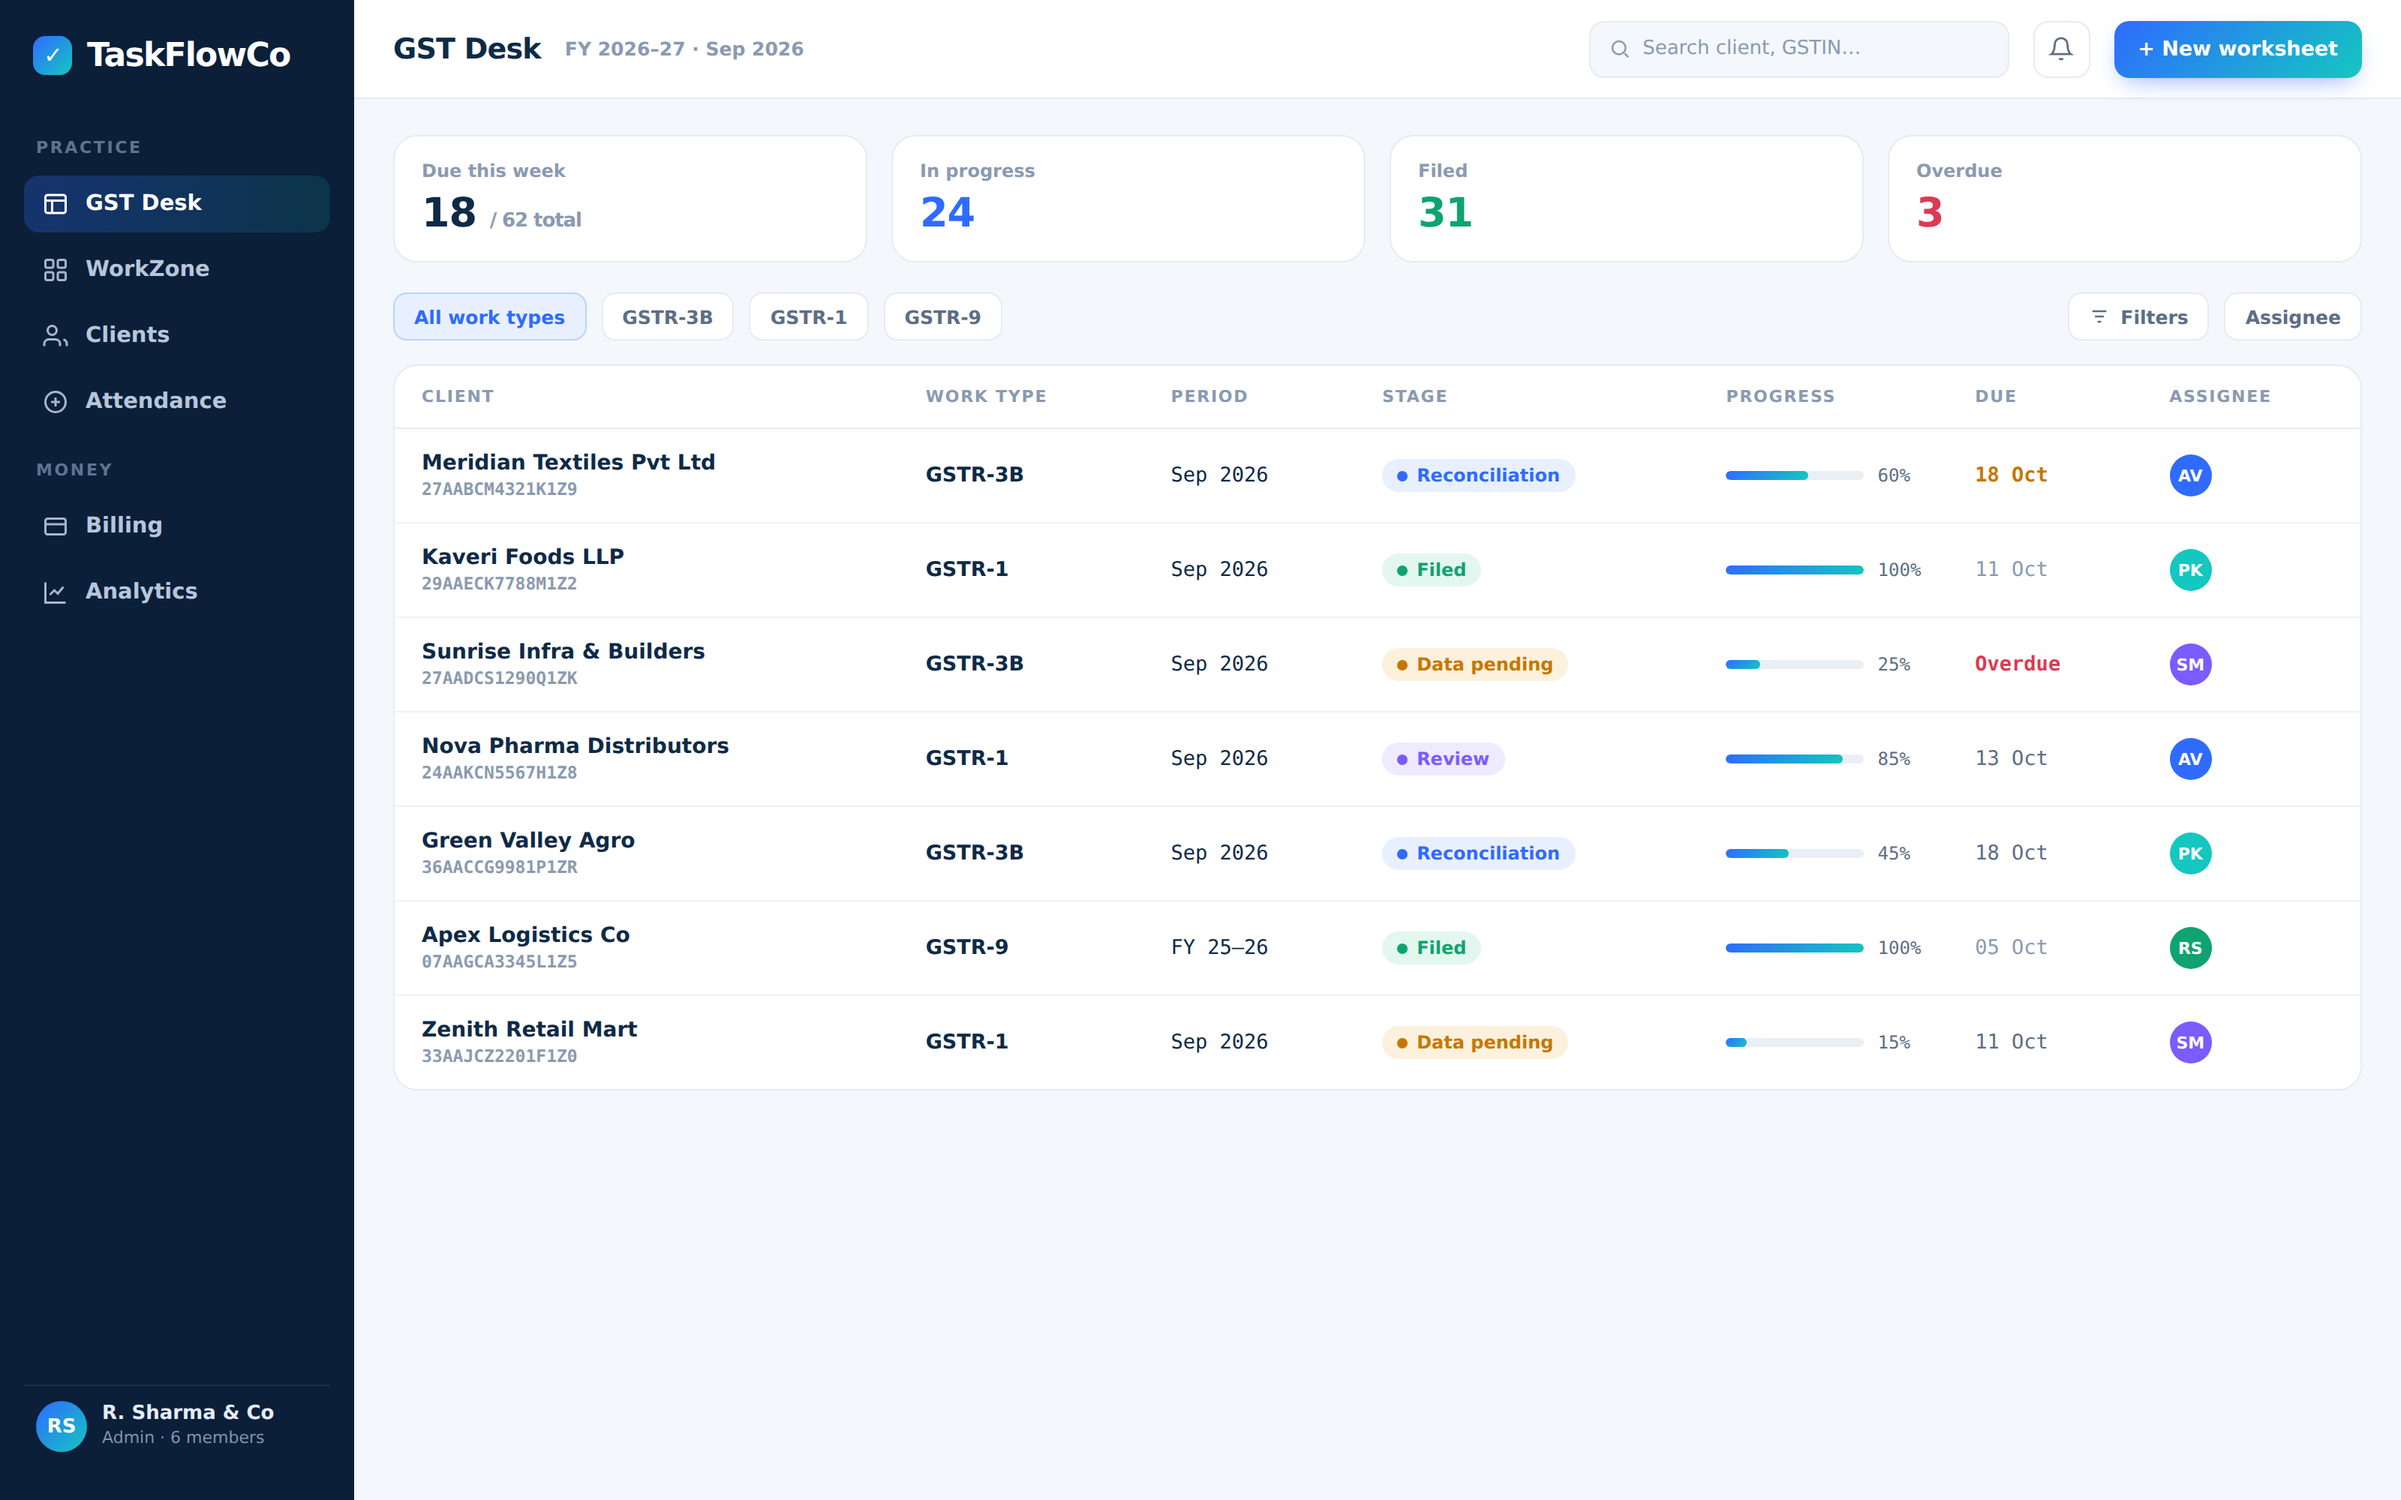
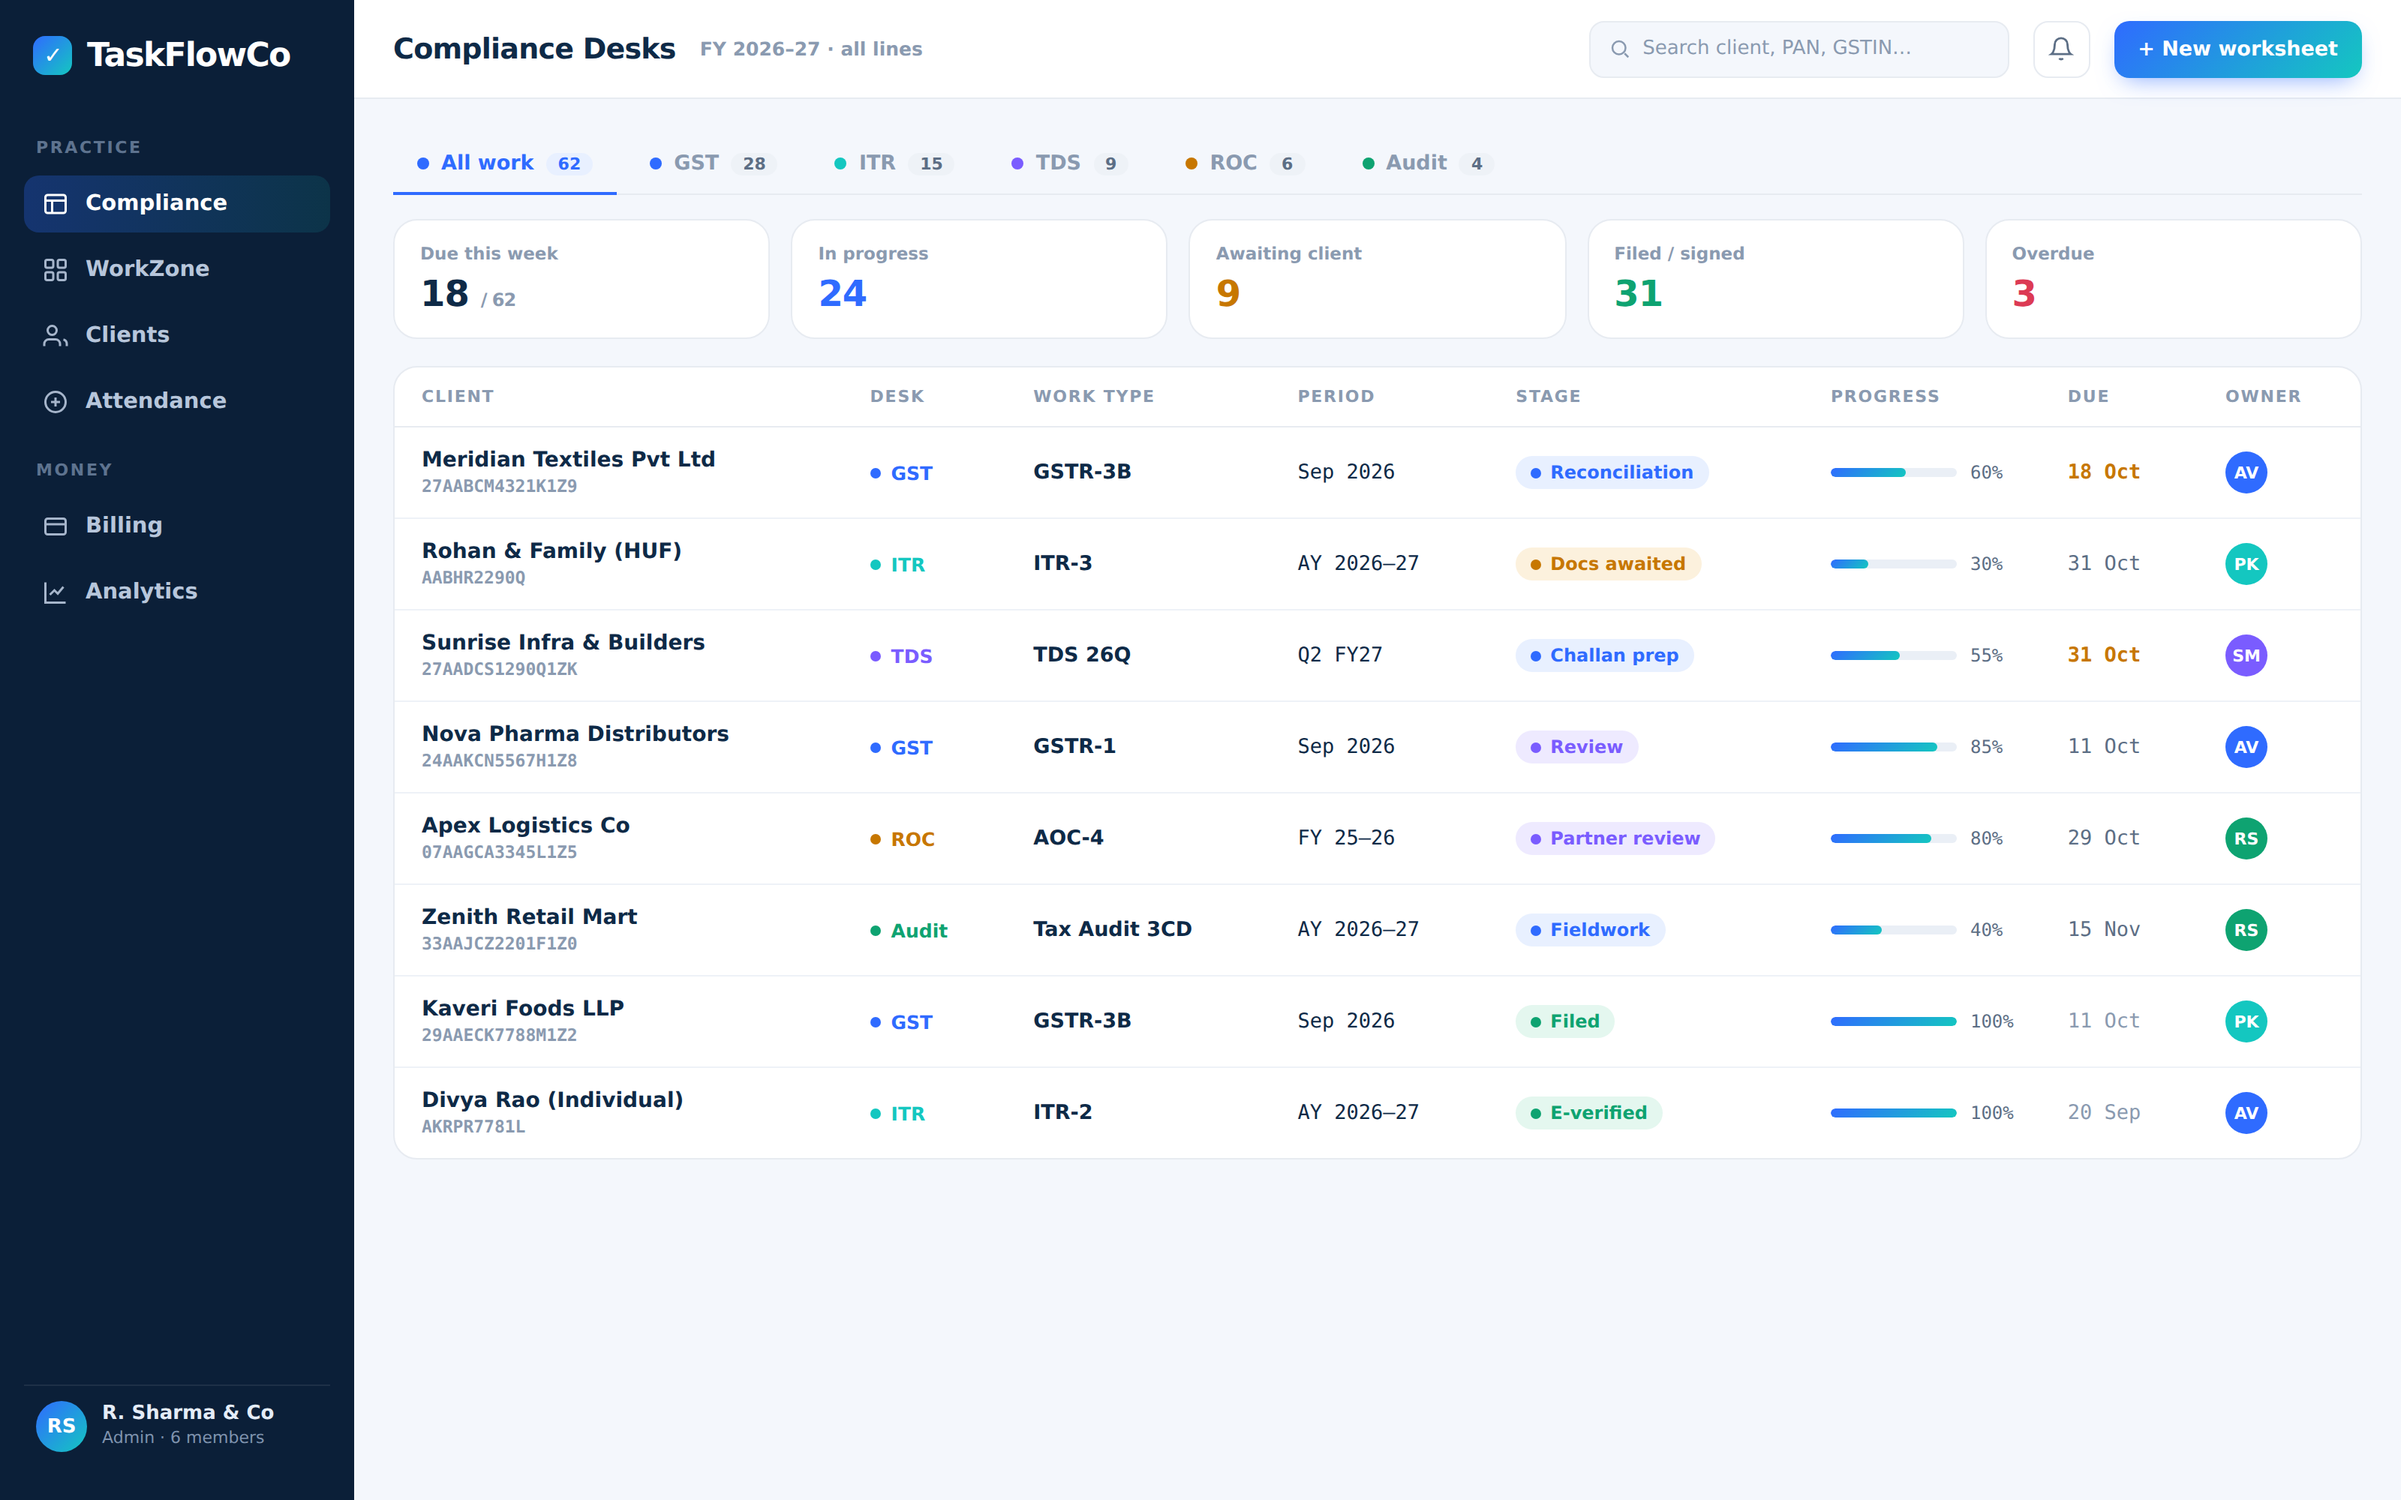
Landing: broaden desk/WorkZone mockups + fuller founder testimonial
- Gallery "GST Desk" reframed as Compliance Desks: GST, ITR, TDS, ROC and audit
  desks with a mixed work-type table (GSTR-3B, ITR-3, TDS 26Q, AOC-4, 3CD).
- WorkZone mockup now shows the view switcher (Board/Table/Calendar/Workload/
  By client), custom columns & stages, group-by, team avatars and a key-account
  filter — conveying customisation, multiple views and team/big-client scale.
- Updated the two gallery captions to match.
- Testimonial rewritten to a fuller quote covering returns, audits, deadlines
  and miscommunication all solved, attributed simply to "Founder".

Claude-Session: https://claude.ai/code/session_01Ppoi9jfQf3Q7FSdzHJMUQw

diff --git a/src/LandingPage.jsx b/src/LandingPage.jsx
@@ -456,15 +456,15 @@ function ProductShowcase() {
 // they replace the placeholder automatically. Until then a labelled preview
 // frame shows so the section is presentable.
 const GALLERY = [
-  { key: 'gst-desk', addr: 'app.taskflowco.in/gst', eyebrow: 'GST Desk',
-    title: 'Reconcile every GST return, by stage',
-    sub: 'Track each GSTR by internal stage and reconcile it against the portal — so you always know what is actually filed.',
-    bullets: ['Per-client GSTR tracking (1, 3B, 9…) by stage', 'Internal status vs GST-portal reconciliation', 'Escalating reminders as the due date nears'],
+  { key: 'gst-desk', addr: 'app.taskflowco.in/desk', eyebrow: 'Compliance Desks',
+    title: 'One desk for every compliance line',
+    sub: 'GST, ITR, TDS, ROC and audit — each on its own desk, every return tracked by stage and reconciled against the portal, so you always know what is actually filed.',
+    bullets: ['Dedicated desks: GST, ITR, TDS, ROC & audit', 'Per-client tracking by internal stage', 'Escalating reminders as each due date nears'],
     icon: <><rect x="4" y="3" width="16" height="18" rx="2" /><path d="M8 8h8M8 12h6M9 16l1.6 1.6L14 14.5" /></> },
   { key: 'workzone', addr: 'app.taskflowco.in/workzone', eyebrow: 'WorkZone',
-    title: 'Every task, from pending to filed',
-    sub: 'Your whole team moves work across stage-based boards tailored to each work type.',
-    bullets: ['Pending → in progress → review → filed', 'Auto-generated recurring worksheets', 'Assignees, priorities, checklists & due dates'],
+    title: 'Your work, your way — many views',
+    sub: 'Board, table, calendar, workload and per-client views over the same worksheets. Group, filter and customise columns and stages to fit exactly how your firm works.',
+    bullets: ['Board · Table · Calendar · Workload · Client views', 'Fully custom stages, columns & work types', 'Team workload, big-client rollups & filters'],
     icon: <><rect x="3" y="4" width="4" height="16" rx="1" /><rect x="10" y="4" width="4" height="11" rx="1" /><rect x="17" y="4" width="4" height="14" rx="1" /></> },
   { key: 'client-portal', addr: 'app.taskflowco.in/portal', eyebrow: 'Client Portal',
     title: 'Collect documents without the chase',
@@ -933,11 +933,11 @@ export default function LandingPage({ onSignIn, loading }) {
       </div>
 
       {/* TESTIMONIAL */}
-      <div className="wrap" style={{ maxWidth: 900, padding: '80px 32px', textAlign: 'center' }}>
-        <p className="quote">“Every GST and ITR deadline for the whole firm sits on one board now. Nothing slips.”</p>
+      <div className="wrap" style={{ maxWidth: 920, padding: '80px 32px', textAlign: 'center' }}>
+        <p className="quote" style={{ maxWidth: '32ch' }}>“Every return, audit and deadline for the whole firm sits in one place now — GST, ITR, TDS, ROC, all of it. My team stopped chasing each other for status and clients stopped getting missed emails. Nothing slips through, and I can see exactly what’s filed, what’s pending and who’s on it — without asking a single person.”</p>
         <div style={{ display: 'flex', alignItems: 'center', justifyContent: 'center', gap: 12 }}>
-          <span style={{ width: 44, height: 44, borderRadius: '50%', background: 'var(--field)', border: '1px solid var(--border)', display: 'flex', alignItems: 'center', justifyContent: 'center', fontWeight: 800, color: 'var(--ink-2)', fontSize: 14 }}>RB</span>
-          <div style={{ textAlign: 'left' }}><div style={{ fontSize: 14, fontWeight: 800, color: 'var(--ink)' }}>Managing Partner</div><div style={{ fontSize: 13, color: 'var(--muted)' }}>Mid-size CA firm · Pune</div></div>
+          <span style={{ width: 44, height: 44, borderRadius: '50%', background: 'var(--grad)', display: 'flex', alignItems: 'center', justifyContent: 'center', fontWeight: 800, color: '#fff', fontSize: 15 }}>“</span>
+          <div style={{ textAlign: 'left' }}><div style={{ fontSize: 14, fontWeight: 800, color: 'var(--ink)' }}>Founder</div></div>
         </div>
       </div>
 
